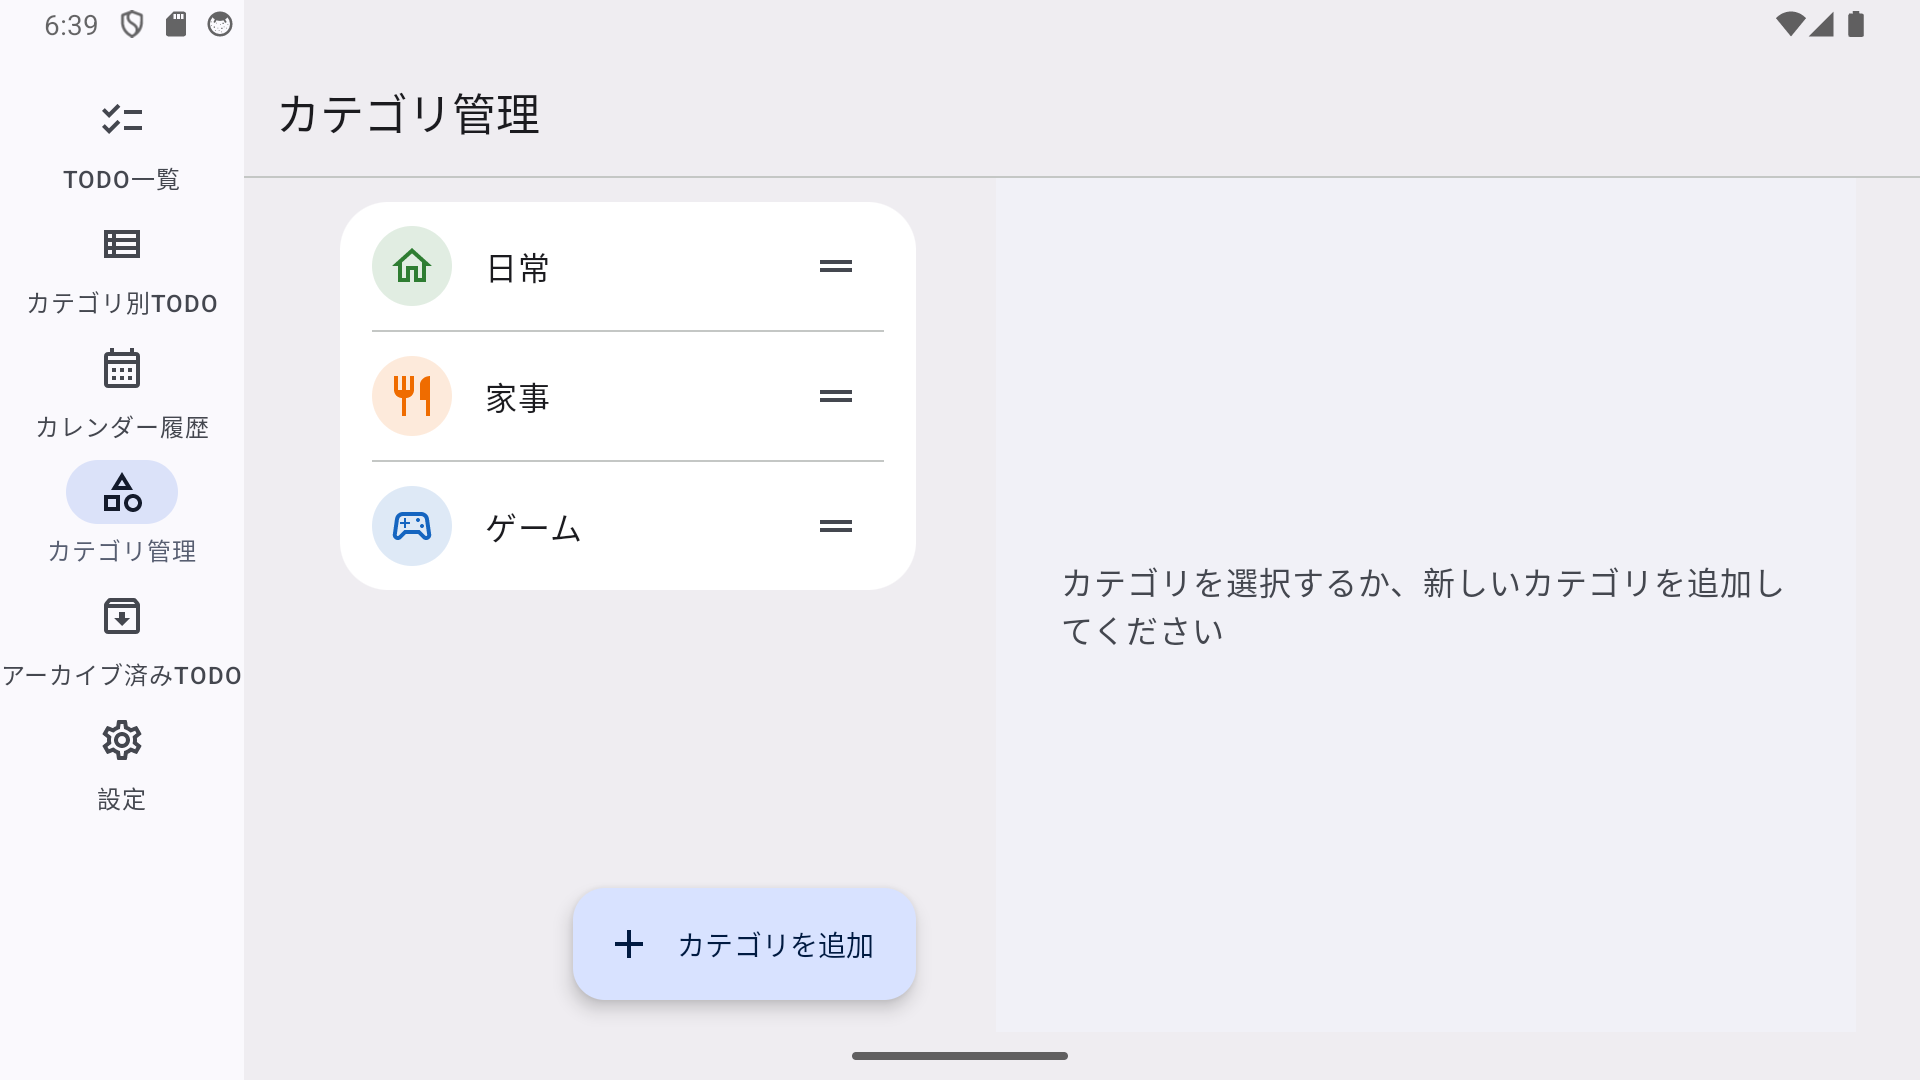
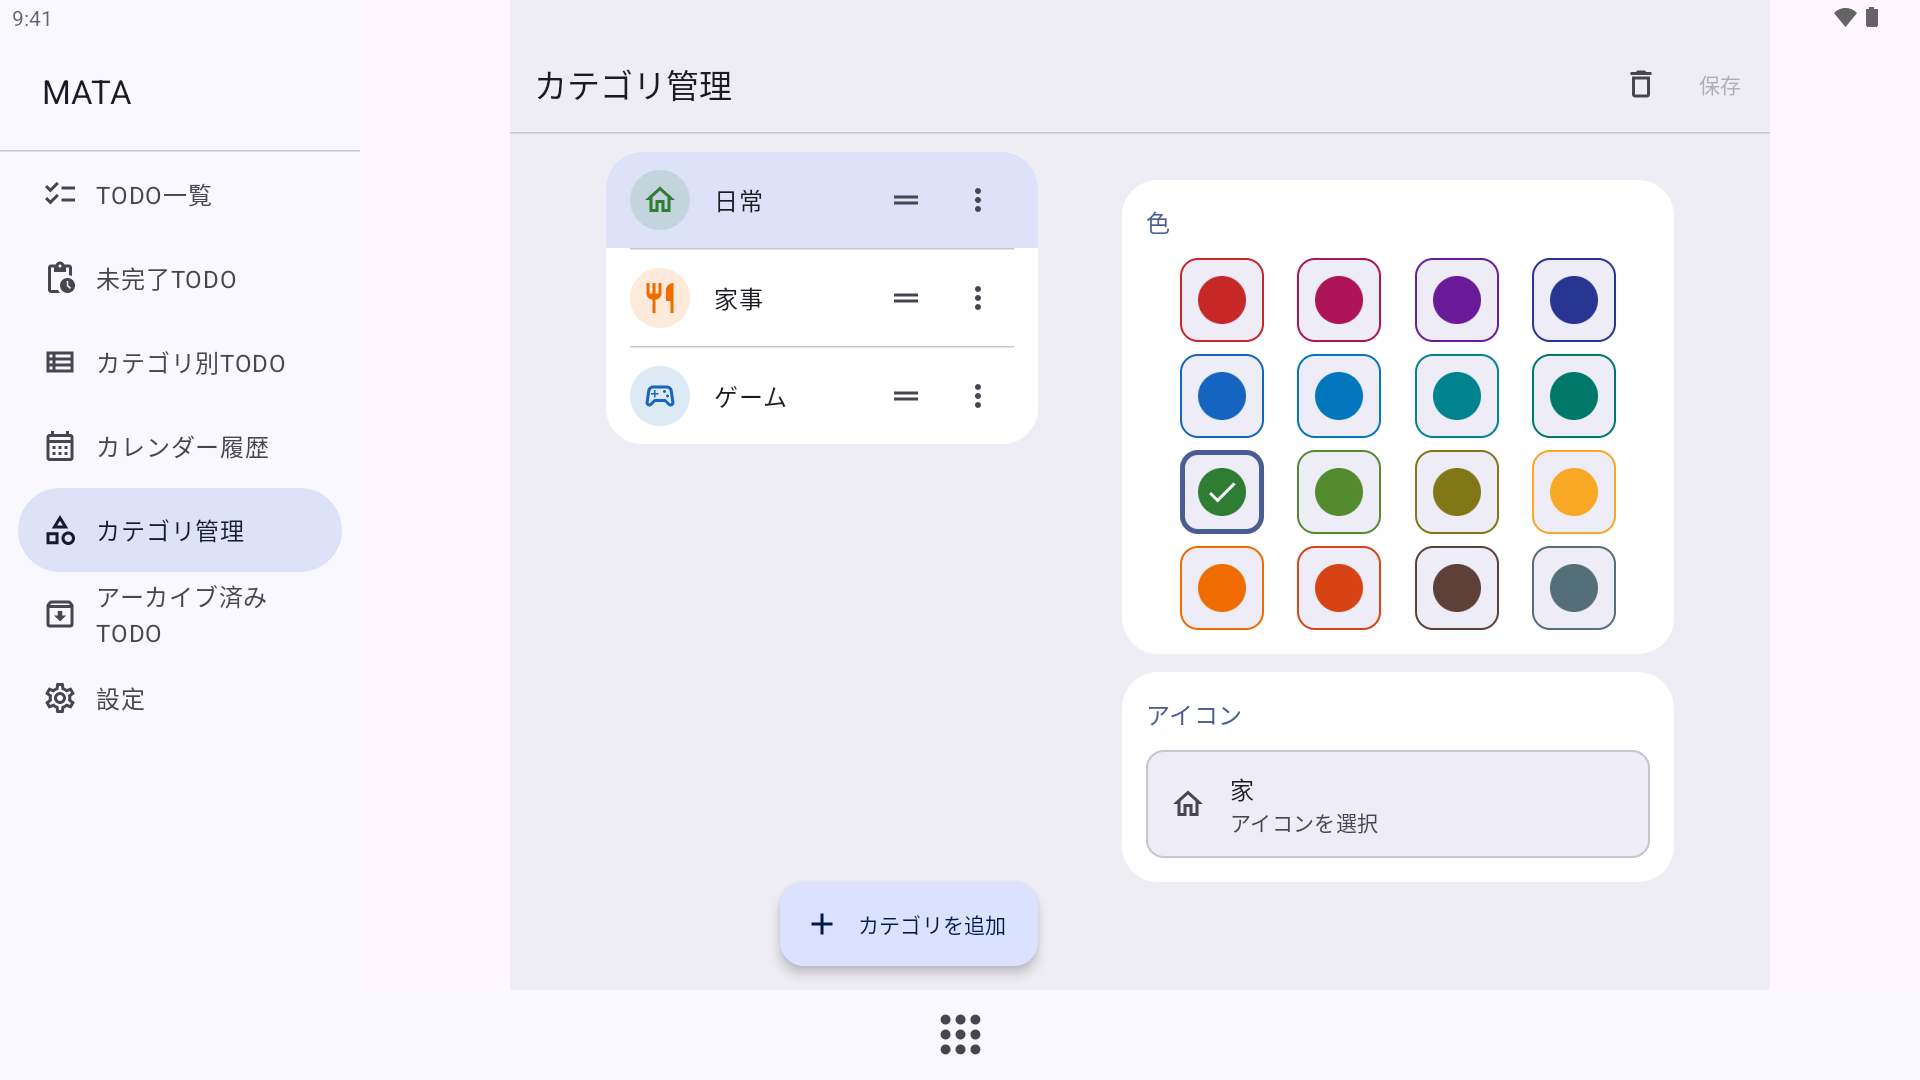
docs: refresh store screenshots for current layouts

diff --git a/app/src/benchmark/java/com/mochisofts/mata/benchmark/BenchmarkDataReceiver.kt b/app/src/benchmark/java/com/mochisofts/mata/benchmark/BenchmarkDataReceiver.kt
@@ -162,11 +162,19 @@ class BenchmarkDataReceiver : BroadcastReceiver() {
                 dueMinutes = 23 * 60,
             ),
         )
-        activeTodos.forEach { todo -> saveStoreTodo(todo, today.minusMonths(2)) }
+        activeTodos.forEach { todo ->
+            val startDate = if (todo.recurrenceRule.type == RecurrenceType.WEEKLY_COUNT) {
+                today
+            } else {
+                today.minusMonths(2)
+            }
+            saveStoreTodo(todo, startDate)
+        }
 
         seedPastAction(storeTodoId(1), today.minusDays(1), TodoState.COMPLETED)
         seedPastAction(storeTodoId(5), today.minusDays(1), TodoState.SKIPPED)
         seedPastAction(storeTodoId(1), today.minusDays(2), TodoState.COMPLETED)
+        seedStoreHistory(activeTodos, today)
 
         val archivedTodo = StoreTodo(
             id = storeTodoId(7),
@@ -185,6 +193,31 @@ class BenchmarkDataReceiver : BroadcastReceiver() {
         settingsRepository.setTodoListMode(TODO_LIST_MODE_DATE)
         settingsRepository.setWeekStart(DayOfWeek.MONDAY)
         settingsRepository.setTheme(AppTheme.LIGHT)
+    }
+
+    private suspend fun seedStoreHistory(todos: List<StoreTodo>, today: LocalDate) {
+        var date = today.minusMonths(2)
+        while (date < today) {
+            todos.forEach { todo ->
+                val scheduled = when (todo.recurrenceRule.type) {
+                    RecurrenceType.DAILY -> true
+                    RecurrenceType.SELECTED_WEEKDAYS ->
+                        date.dayOfWeek in todo.recurrenceRule.selectedWeekdays
+                    RecurrenceType.MONTHLY_NTH_WEEKDAYS -> MonthlyNthWeekday(
+                        (date.dayOfMonth - 1) / 7 + 1,
+                        date.dayOfWeek,
+                    ) in todo.recurrenceRule.monthlyNthWeekdays
+                    else -> false
+                }
+                // Keep one recent household routine unfinished to show the inbox entry.
+                val recentUnfinished = todo.id == storeTodoId(4) &&
+                    date.isAfter(today.minusWeeks(1))
+                if (scheduled && !recentUnfinished) {
+                    seedPastAction(todo.id, date, TodoState.COMPLETED)
+                }
+            }
+            date = date.plusDays(1)
+        }
     }
 
     private suspend fun saveStoreTodo(todo: StoreTodo, startDate: LocalDate) {

diff --git a/.agents/test-specs/store-screenshot-refresh-v11.md b/.agents/test-specs/store-screenshot-refresh-v11.md
@@ -1,0 +1,71 @@
+# ストア掲載画像更新記録（versionCode 11相当）
+
+- 撮影・確認日: 2026-10-27
+- 状態: 実画面14枚を取得・目視確認・配置済み／Play Console差し替え未実施
+- 正本: [ストア掲載文・画像仕様](../non-functional-specs/release-specs/store-listing-copy-and-assets.md)
+- 成果物: [Google Play掲載成果物](../../fastlane/README.md)
+
+## 1. 対象と生成条件
+
+本番UIの基準はmainの`4a9874d5138f16d1a3c56eaf05be64b18a0e30f1`。versionName `1.0.0`・versionCode `11`と同じ本番コードで、benchmark専用の架空履歴データだけを調整して撮影した。`app/src/main`、ビルド設定、SDK、権限、DB・バックアップ形式は変更しない。
+
+- ビルド: `:app:assembleBenchmark`成功。Release相当の最適化・本番表示名`MATA`を使用し、debug署名・広告テストIDを設定する。
[1 lines of base64/hex data omitted]
+- Upload Keyの各入力を空にし、`MATA_REQUIRE_UPLOAD_SIGNING=false`で検証ビルドを実施。署名情報やAPKをGitへ含めない。
+- 撮影端末: 専用AVD `mata_store_phone_api34`、Android 14 / API 34、Asia/Tokyo。利用者の実機データは変更しない。
+- スマートフォン: 1,080×1,920px、360dpi、480×約853dp。
+- 7インチ掲載欄向け: 1,920×1,080px、240dpi、1,280×720dp。
+- 10インチ掲載欄向け: 1,920×1,080px、220dpi、約1,396×785dp。
+
+上記dpはシステムバーを含む表示領域であり、アプリの有効領域はInsetsの分だけ小さい。タブレットの区分はPlay Consoleの掲載欄名で、実機の物理インチ数や特定タブレットの動作保証ではない。同じ撮影専用AVDの解像度・密度を切り替え、各表示領域でアプリを再レイアウトした。画像取得後のリサイズ・切り抜き・合成・文字追加や、スマートフォン画像の流用は行わない。
+
+## 2. 架空データと画面状態
+
+benchmark専用の`SEED_STORE_SCREENSHOT_DATA`を使用し、日常・家事・ゲームの3カテゴリ、実行中6件・アーカイブ済み1件を投入した。過去2か月の予定日に架空の完了履歴を作成し、前日のデイリーミッションはスキップ、直近の土曜日のキッチン整理は未完了として残す。週3回のTODOは撮影日から開始する。投入後、撮影日のゴミ出しをアプリ上で完了し、一覧を1/4完了・未完了3件にした。
+
+すべて架空の情報であり、クローズドテストの利用実績ではない。カレンダーは10月26日を選択し、完了・スキップの履歴を表示した。繰り返し設定は「毎月 第X X曜日」の第1月曜・第3金曜を選択した既存TODOを開いた状態を撮影した。
+
+## 3. 更新した画像
+
+配置先はすべて`fastlane/metadata/android/ja-JP/images/`配下。順番と寸法は`fastlane/play-store-manifest.json`に従う。
+
+| 掲載欄 | ファイル | 主な内容 | 目視結果 |
+| --- | --- | --- | --- |
+| スマートフォン | `phoneScreenshots/01-today.png` | 日付サマリ・未完了TODO入口・カテゴリカード | OK |
+| スマートフォン | `phoneScreenshots/02-recurrence.png` | 毎月第X曜日の複数指定 | OK |
+| スマートフォン | `phoneScreenshots/03-calendar-history.png` | 曜日色・日付選択・完了／スキップ履歴 | OK |
+| スマートフォン | `phoneScreenshots/04-categories.png` | カテゴリ編集のカード・色・アイコン | OK |
+| スマートフォン | `phoneScreenshots/05-widget.png` | ホーム画面に配置したカード形式の実ウィジェット | OK |
+| スマートフォン | `phoneScreenshots/06-settings-backup.png` | ダークテーマ・手動バックアップ／復元 | OK |
+| 7インチ | `sevenInchScreenshots/01-two-pane.png` | カテゴリ一覧と編集の2ペイン | OK |
+| 7インチ | `sevenInchScreenshots/02-categories.png` | カテゴリ色・アイコン設定 | OK |
+| 7インチ | `sevenInchScreenshots/03-calendar-history.png` | カレンダーと当日履歴の2ペイン | OK |
+| 7インチ | `sevenInchScreenshots/04-archive.png` | アーカイブ一覧・集計・履歴・復元／削除 | OK |
+| 10インチ | `tenInchScreenshots/01-two-pane.png` | カテゴリ一覧と編集の2ペイン | OK |
+| 10インチ | `tenInchScreenshots/02-categories.png` | カテゴリアイコンの選択 | OK |
+| 10インチ | `tenInchScreenshots/03-calendar-history.png` | カレンダーと当日履歴の2ペイン | OK |
+| 10インチ | `tenInchScreenshots/04-archive.png` | アーカイブ一覧・集計・履歴・復元／削除 | OK |
+
+## 4. 品質確認と範囲
+
+- 14枚ともADBの`screencap -p`で取得したPNGをそのまま使用し、個別に目視確認した。
+- 端末フレーム、加工、実在する個人情報、通知内容、`MATA Dev`等のデバッグ表示、本番広告は含めない。
+- ステータスバーはOSのデモ表示で9:41・Wi-Fi・電池を整え、通知アイコンを非表示にした。アプリ内の履歴日時は架空データを投入した日時のままで、利用者の実績ではない。
+- 広告はテストID設定・広告未表示のbenchmarkを使用した。製品版に広告がないことを示すものではなく、ストア説明の広告表示案内は変更しない。
+- ウィジェット画像はOS標準ホームへ実際に配置した状態。固定プレビューではない。他アプリのショートカット・自動候補は外したが、OS標準検索バーは加工せず残した。
+- 設定画面はダーク、他はライト。スクロール途中の画像は実際のスクロール位置をそのまま記録し、画面外まで続くカードを合成でつなげない。
+- アイコン・フィーチャーグラフィックは既存のまま変更しない。
+- `node fastlane/verify-play-store.mjs --release`は成功し、14枚と既存のアイコン・フィーチャーグラフィックの形式・寸法・配置、掲載文の同期を確認した。
+- 法的文書、アーキテクチャ、外部データ契約、自動試験証跡の各検証も成功した。PRでは通常のAndroid CI・CodeQLを確認してからマージする。
+
+この撮影は掲載画像の確認に限る。Play経由のversionCode 11の10→11更新回帰、広告の実配信、原報告者の改善再確認、Closed testingの要件達成、Production accessの承認を補完しない。配布済みAAB・ZIP・候補メタデータは再生成・変更しない。
+
+## 5. Play Consoleへの反映（未実施）
+
+1. メインのストア掲載情報を開く。
+2. スマートフォン6枚、7インチ4枚、10インチ4枚を、それぞれ上記画像へ差し替える。
+3. 各欄をファイル名の番号順に並べ、プレビューで表示・順序を確認する。
+4. アイコン・フィーチャーグラフィックは今回差し替えない。
+5. 保存後、公開の概要で必要な変更を審査へ送信し、Console上の状態を記録する。
+
+実際の差し替え・保存・審査送信・公開完了は、ユーザーまたはConsoleで確認できた結果だけを追記する。

diff --git a/fastlane/README.md b/fastlane/README.md
@@ -37,7 +37,11 @@ Google Play Consoleへ登録する日本語の掲載文と画像を、Fastlane S
     adb install -t app/build/outputs/apk/benchmark/app-benchmark.apk
     adb shell am broadcast -a com.mochisofts.mata.action.SEED_STORE_SCREENSHOT_DATA
 
-投入されるデータは架空のTODO・カテゴリ・履歴です。撮影後は画像をこのリポジトリへ保存する前に、端末の時刻、通知、他アプリの情報などが写り込んでいないことを目視確認します。
+投入されるデータは架空のTODO・カテゴリ・履歴です。過去2か月の予定日に完了履歴を用意し、前日のスキップと直近1週間の土曜日の未完了を残します。週3回のTODOは投入日から開始します。既存データの削除・初期化は、撮影専用エミュレーターと対象パッケージを確認した場合に限り、日常利用中の端末では行いません。
+
+2026-10-27にversionCode 11と同じ本番UIから14枚を再取得しました。撮影条件と確認結果は[ストア画像更新記録](../.agents/test-specs/store-screenshot-refresh-v11.md)を参照してください。Android 14 / API 34の撮影専用エミュレーターで、スマートフォンは1,080×1,920px・360dpi、7インチ掲載欄用は1,920×1,080px・240dpi、10インチ掲載欄用は1,920×1,080px・220dpiで表示し直しています。タブレットの区分は掲載欄名であり、実機の物理インチ数を測定した記録ではありません。スマートフォン画像の拡大流用や、取得後のリサイズ・合成はしていません。
+
+ウィジェットは標準ランチャーへ実際に配置したものを撮影し、配置前の固定プレビュー画像で代用しません。不要な他アプリのショートカットと自動候補は非表示にし、OS標準の検索バーはそのまま残します。撮影後は端末の通知、個人情報、デバッグ表示、本番広告が写り込んでいないことを目視確認します。
 
 ## 公開候補の検証
 
@@ -47,4 +51,6 @@ Google Play Consoleへ登録する日本語の掲載文と画像を、Fastlane S
 
 公開用検証は、画像が1枚でも不足する場合、寸法やPNG形式が異なる場合、アイコンが1,024KBを超える場合、フィーチャーグラフィックにアルファチャンネルがある場合に失敗します。
 
-画像撮影時は通知や実在情報を含めず、Googleのテスト広告を使用します。ライトテーマを基本とし、少なくとも1枚はダークテーマで撮影します。撮影後は各画像を目視し、ぼかし、引き伸ばし、欠け、重複、デバッグ表示および第三者商標がないことも確認してください。
+画像撮影時は通知や実在情報を含めず、広告はGoogleのテストIDを設定した検証ビルド、または広告未表示のRelease相当レイアウトを使用します。今回のbenchmarkビルドはテストID設定・広告未表示の状態です。広告なしの製品であることを意味せず、掲載文の「広告を含む」は維持します。ライトテーマを基本とし、設定・バックアップ画像はダークテーマで撮影しています。各画像を目視し、ぼかし、引き伸ばし、意図しない欠け・重複、デバッグ表示および他社広告がないことも確認してください。ウィジェット画像に残るOS標準検索バーはMATAの機能・提携を表すものではありません。
+
+リポジトリの画像更新だけではPlay Consoleは更新されません。Consoleのスマートフォン・7インチ・10インチ各掲載欄で旧画像を同名の新画像へ差し替え、順序とプレビューを確認して保存・審査送信してください。アイコンとフィーチャーグラフィックは今回変更していません。

diff --git a/.agents/non-functional-specs/release-specs/initial-release-status.md b/.agents/non-functional-specs/release-specs/initial-release-status.md
@@ -126,7 +126,7 @@ versionCode `1`はInternal testing、versionCode `2`、`3`、`4`、`5`、`7`、`
 | Android実機確認 | 完了 | CONSOLE / USER |
 | Play ConsoleのMATAアプリ作成 | 完了 | CONSOLE / USER |
 | App content | 未完了カードなし | CONSOLE / USER |
-| ストア掲載文・画像・連絡先・Webサイト | 登録済み | CONSOLE / USER |
+| ストア掲載文・画像・連絡先・Webサイト | 旧版は登録済み。2026-10-27に現在のUIで掲載画像14枚を再取得し、リポジトリへ配置。新画像のConsole差し替えは未実施。[更新記録](../../test-specs/store-screenshot-refresh-v11.md)を参照 | CONSOLE / USER / AUTO |
 | 初回本番公開用文章 | 短い説明、詳細な説明、versionCode 6リリースノートを2026年9月17日に正本と`fastlane/metadata`へ確定。Play Console反映待ち | AUTO / USER |
 | Internal testing | `1.0.0 (1)`を公開し、参加URL経由でインストール済み | CONSOLE / DEVICE |
 | `1.0.0 (2)`Closed testing候補 | Closed testingへ公開し、versionCode 1からの上書き更新と主要実機試験に使用済み | AUTO / CONSOLE / DEVICE / USER |
